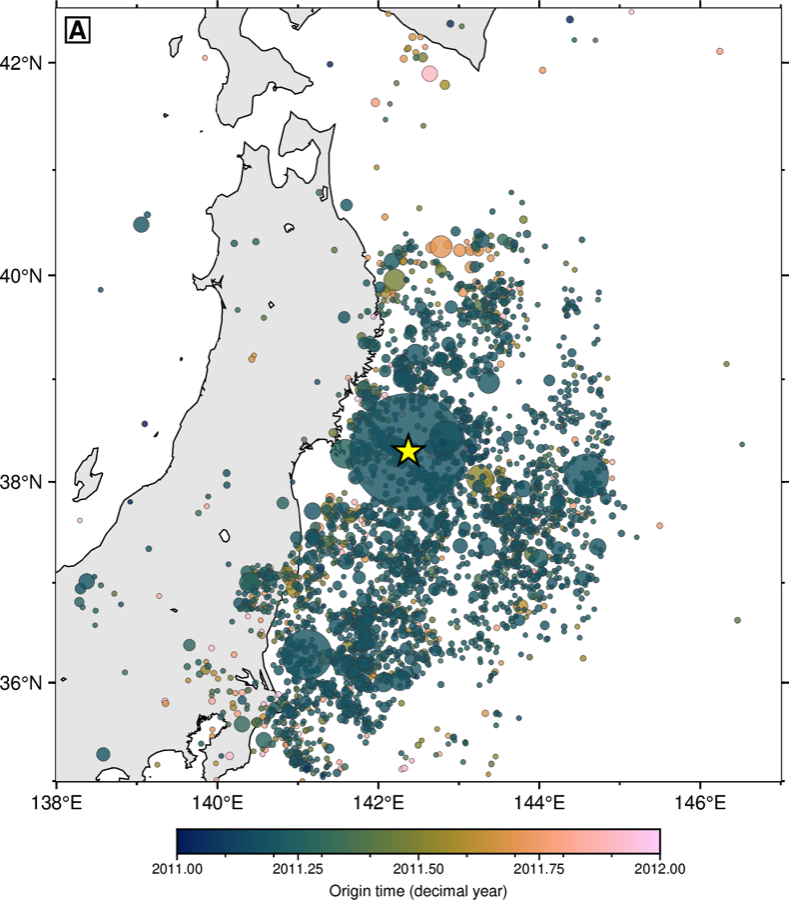
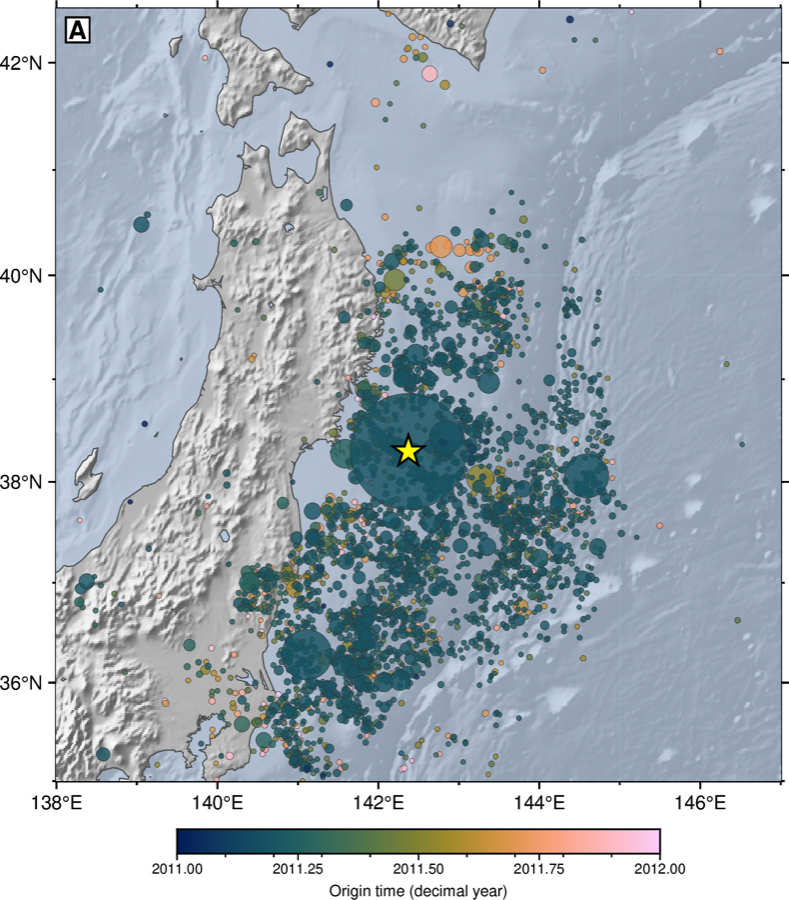
map templates: shaded-relief background by default, auto gray bounds from the DEM
focal_mechanisms and time_colored_seismicity join seismicity_map with a
relief base (resolution auto by span); gray CPT bounds derived from the
grid itself so oceanic and plateau regions both keep land in light tones.

diff --git a/scripts/focal_mechanisms.py b/scripts/focal_mechanisms.py
@@ -15,7 +15,7 @@ import pygmt
 
 sys.path.insert(0, os.path.dirname(os.path.abspath(__file__)))
 sys.path.insert(1, os.path.expanduser("~/.claude/skills/pygmt-plotting/scripts"))  # fallback when this file is copied elsewhere
-from style_presets import coast_colors, colorbar, panel_label, style
+from style_presets import colorbar, panel_label, style
 
 # ---------------- CONFIG ----------------
 STYLE = "house"
@@ -43,7 +43,16 @@ mechs = pd.DataFrame([
 fig = pygmt.Figure()
 with style(STYLE):
     fig.basemap(region=REGION, projection=PROJECTION, frame=["WSne", "xaf", "yaf"])
-    fig.coast(**coast_colors(STYLE), resolution="i")
+    # shaded-relief context by default (tectonic maps read empty without it)
+    span = max(REGION[1] - REGION[0], REGION[3] - REGION[2])
+    res = "03s" if span <= 1 else "15s" if span <= 3 else "01m"
+    relief = pygmt.datasets.load_earth_relief(resolution=res, region=REGION)
+    shade = pygmt.grdgradient(grid=relief, azimuth=315, normalize="t1")
+    zlo, zhi = float(relief.min()), float(relief.max())
+    pygmt.makecpt(cmap="gray", series=[zlo * 1.25 if zlo < 0 else zlo - 800, zhi + 1800])
+    fig.grdimage(grid=relief, shading=shade, cmap=True)
+    fig.coast(shorelines="0.4p,gray30", water="lightsteelblue@30",
+              lakes="lightsteelblue", resolution="i")
     pygmt.makecpt(cmap="inferno", series=DEPTH_RANGE, reverse=True)
     # manual Mw sizing: radius = 0.18 + 0.13*(Mw-6) cm reads clearly from M6.6 to M9.1
     for _, e in mechs.iterrows():

diff --git a/scripts/time_colored_seismicity.py b/scripts/time_colored_seismicity.py
@@ -15,7 +15,7 @@ import pygmt
 
 sys.path.insert(0, os.path.dirname(os.path.abspath(__file__)))
 sys.path.insert(1, os.path.expanduser("~/.claude/skills/pygmt-plotting/scripts"))  # fallback when this file is copied elsewhere
-from style_presets import coast_colors, colorbar, panel_label, style
+from style_presets import colorbar, panel_label, style
 
 # ---------------- CONFIG ----------------
 STYLE = "house"
@@ -34,7 +34,15 @@ print(f"{len(cat)} events in window")
 fig = pygmt.Figure()
 with style(STYLE):
     fig.basemap(region=REGION, projection="M12c", frame=["WSne", "xaf", "yaf"])
-    fig.coast(**coast_colors(STYLE), resolution="i")
+    span = max(REGION[1] - REGION[0], REGION[3] - REGION[2])
+    res = "03s" if span <= 1 else "15s" if span <= 3 else "01m"
+    relief = pygmt.datasets.load_earth_relief(resolution=res, region=REGION)
+    shade = pygmt.grdgradient(grid=relief, azimuth=315, normalize="t1")
+    zlo, zhi = float(relief.min()), float(relief.max())
+    pygmt.makecpt(cmap="gray", series=[zlo * 1.25 if zlo < 0 else zlo - 800, zhi + 1800])
+    fig.grdimage(grid=relief, shading=shade, cmap=True)
+    fig.coast(shorelines="0.4p,gray30", water="lightsteelblue@30",
+              lakes="lightsteelblue", resolution="i")
     pygmt.makecpt(cmap="batlow", series=TSPAN)
     fig.plot(x=cat.lon, y=cat.lat, fill=cat.dyear, cmap=True,
              size=SIZE_SCALE * 2 ** cat.mag, style="cc",

diff --git a/scripts/seismicity_map.py b/scripts/seismicity_map.py
@@ -80,7 +80,8 @@ with style(STYLE):
             ("03s" if span <= 1 else "15s" if span <= 3 else "01m")
         relief = pygmt.datasets.load_earth_relief(resolution=res, region=REGION)
         shade = pygmt.grdgradient(grid=relief, azimuth=315, normalize="t1")
-        pygmt.makecpt(cmap="gray", series=[-9000, 3000])   # land in the light grays
+        zlo, zhi = float(relief.min()), float(relief.max())
+        pygmt.makecpt(cmap="gray", series=[zlo * 1.25 if zlo < 0 else zlo - 800, zhi + 1800])
         fig.grdimage(grid=relief, shading=shade, cmap=True)
         fig.coast(shorelines="0.4p,gray30", water="lightsteelblue@30", resolution="i")
     else:
